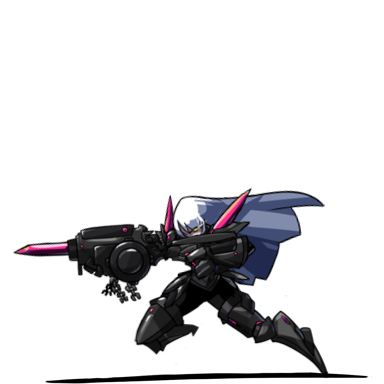
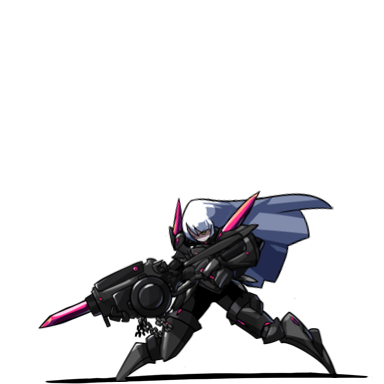
Add more images, fix damage number bug

Changed region(s): [[0.0312, 0.4688, 0.875, 1.0]]

diff --git a/src/CombatCharacter.js b/src/CombatCharacter.js
@@ -5,28 +5,38 @@ import { Text } from './particles';
 import { controls } from './constants';
 
 const frames = {
-  idle: ['idle_1', 'idle_2', 'idle_3', 'idle_4'],
-  attack: ['attack_1', 'attack_2', 'attack_2', 'idle_1'],
+  idle: ['idle_1', 'idle_2', 'idle_3', 'idle_1'],
+  attack: ['attack_1', 'attack_2', 'attack_3', 'attack_3'],
   death: ['death', 'death', 'death', 'death']
 };
-const resetDamageNumberAnimation = () => {
-  const el = document.querySelector('.damage_number');
+const resetDamageNumberAnimation = (damageNumberClassName) => {
+  const el = document.querySelector(`.${damageNumberClassName}`);
   if (el) {
-    el.classList.remove('damage_number');
+    el.classList.remove(damageNumberClassName);
     void el.offsetWidth;
-    el.classList.add('damage_number');
+    el.classList.add(damageNumberClassName);
   }
 };
 
 export class CombatCharacter extends PureComponent {
   render() {
     const {
-      spriteAction, hp, maxHp, shields, maxShields, name, isEnemy, needToFlipImage, hpDifferential, shieldsDifferential
+      index,
+      spriteAction,
+      hp,
+      maxHp,
+      shields,
+      maxShields,
+      name,
+      isEnemy,
+      needToFlipImage,
+      hpDifferential,
+      shieldsDifferential
     } = this.props;
 
     const animationName = `sprite_animation_${name}_${spriteAction}`;
-    const animationCss = spriteAction === 'death'
-      ? `background: url("assets/${name}/death.png") no-repeat center center;`
+    const animationCss = !hp
+      ? `background: url("assets/${name}/death.png") center center / cover no-repeat;`
       : `
         ${mixins.keyframes(animationName, `
           0% { background: url("assets/${name}/${frames[spriteAction][0]}.png") center center / cover no-repeat; }
@@ -38,8 +48,9 @@ export class CombatCharacter extends PureComponent {
         animation-iteration-count: ${spriteAction === 'idle' ? 'infinite' : 1};
       `;
     const damageNumber = Math.abs(hpDifferential + shieldsDifferential);
+    const damageNumberClassName = `damage_number_${index}`;
     
-    resetDamageNumberAnimation();
+    resetDamageNumberAnimation(damageNumberClassName);
 
     return (
       <div css={combatCharacterCss(isEnemy)}>
@@ -94,8 +105,10 @@ export class CombatCharacter extends PureComponent {
           {hp} / {maxHp}<br />
           {shields ? <span className='shields'>{shields} / {maxShields}</span> : null}
         </Text>
-        {damageNumber === 0 ? null : (
-          <Text className='damage_number' type='title' color='yellow' centered>{damageNumber}</Text>
+        {!!damageNumber && (
+          <Text className={`damage_number ${damageNumberClassName}`} type='title' color='yellow' centered>
+            {damageNumber}
+          </Text>
         )}
       </div>
     );
@@ -153,11 +166,11 @@ const combatCharacterCss = (isEnemy) => css`
     opacity: 0;
 
     ${mixins.keyframes('damageNumberFadeOut', `
-      0% { top: 35%; opacity: 1; }
-      33% { top: 30%; opacity: 1; }
-      66% { top: 25%; opacity: 1; }
-      100% { top: 20%; opacity: 0; }
+      0% { top: 30%; opacity: 1; }
+      33% { top: 25%; opacity: 1; }
+      66% { top: 20%; opacity: 1; }
+      100% { top: 15%; opacity: 0; }
     `)}
-    animation: damageNumberFadeOut 1s linear;
+    animation: damageNumberFadeOut 1s ease-out;
   }
 `;

diff --git a/src/Combat.js b/src/Combat.js
@@ -78,28 +78,21 @@ const CombatComponent = ({ characters, dungeonMapCurrentRoom, didYouWin, didEnem
     return () => clearTimeout(timeout);
   }, [attackerIndex, characters, didEnemyWin, didYouWin, dispatch]);
 
-  const spriteActionOverrides = spriteActions;
-  characters.forEach((i, index) => {
-    if (!i.hp) {
-      spriteActionOverrides[index] = 'death';
-    }
-  });
-
   return (
     <FlexContainer justifyContent='center'>
       <FlexContainer justifyContent='center' alignItems='center'>
-        <CombatCharacter spriteAction={spriteActionOverrides[0]} {...characters[0]} />
+        <CombatCharacter index={[0]} spriteAction={spriteActions[0]} {...characters[0]} />
         <div>
-          <CombatCharacter spriteAction={spriteActionOverrides[1]} {...characters[1]} />
-          <CombatCharacter spriteAction={spriteActionOverrides[2]} {...characters[2]} />
+          <CombatCharacter index={[1]} spriteAction={spriteActions[1]} {...characters[1]} />
+          <CombatCharacter index={[2]} spriteAction={spriteActions[2]} {...characters[2]} />
         </div>
       </FlexContainer>
       <FlexContainer className='p2_container' justifyContent='center' alignItems='center'>
         <div>
-          <CombatCharacter spriteAction={spriteActionOverrides[3]} {...characters[3]} />
-          <CombatCharacter spriteAction={spriteActionOverrides[4]} {...characters[4]} />
+          <CombatCharacter index={[3]} spriteAction={spriteActions[3]} {...characters[3]} />
+          <CombatCharacter index={[4]} spriteAction={spriteActions[4]} {...characters[4]} />
         </div>
-        <CombatCharacter spriteAction={spriteActionOverrides[5]} {...characters[5]} />
+        <CombatCharacter index={[5]} spriteAction={spriteActions[5]} {...characters[5]} />
       </FlexContainer>
     </FlexContainer>
   );
@@ -134,7 +127,6 @@ export const Combat = () => {
 
   useEffect(() => {
     if (didYouWin || didEnemyWin) {
-      dispatch(actions.dungeonSetCharacterStats({})); // kind of a hack, to reset damage numbers
       setTimeout(() => setShowCombatVictoryModal(true), 1000);
     }
   }, [didEnemyWin, didYouWin, dispatch]);

diff --git a/src/constants/characters.js b/src/constants/characters.js
@@ -3,9 +3,7 @@ import { keyBy } from 'lodash';
 const allies = [
   {
     name: 'Minotaur',
-    image: 'minotaur',
     isEnemy: false,
-    needToFlipImage: true,
     maxHp: 25,
     hpGrowth: 5,
     maxShields: 0,
@@ -16,9 +14,7 @@ const allies = [
   },
   {
     name: 'Arriette',
-    image: 'arriette',
     isEnemy: false,
-    needToFlipImage: true,
     maxHp: 10,
     hpGrowth: 2,
     maxShields: 5,
@@ -29,9 +25,7 @@ const allies = [
   },
   {
     name: 'Tiamat',
-    image: 'tiamat',
     isEnemy: false,
-    needToFlipImage: true,
     maxHp: 15,
     hpGrowth: 3,
     maxShields: 2,
@@ -45,14 +39,32 @@ const allies = [
 const enemies = [
   {
     name: 'Bat',
-    image: 'bat',
     isEnemy: true,
-    needToFlipImage: false,
     maxHp: 7,
     hpGrowth: 2,
     maxShields: 0,
     shieldsGrowth: 0,
     damage: 3,
+    damageGrowth: 2
+  },
+  {
+    name: 'Plant',
+    isEnemy: true,
+    maxHp: 10,
+    hpGrowth: 3,
+    maxShields: 0,
+    shieldsGrowth: 0,
+    damage: 2,
+    damageGrowth: 1
+  },
+  {
+    name: 'Golem',
+    isEnemy: true,
+    maxHp: 15,
+    hpGrowth: 4,
+    maxShields: 0,
+    shieldsGrowth: 0,
+    damage: 1,
     damageGrowth: 1
   }
 ];
@@ -64,6 +76,7 @@ export const characters = keyBy(
     shields: i.maxShields,
     level: 1,
     hpDifferential: 0,
-    shieldsDifferential: 0
+    shieldsDifferential: 0,
+    needToFlipImage: !i.isEnemy
   })
 ), 'name');
